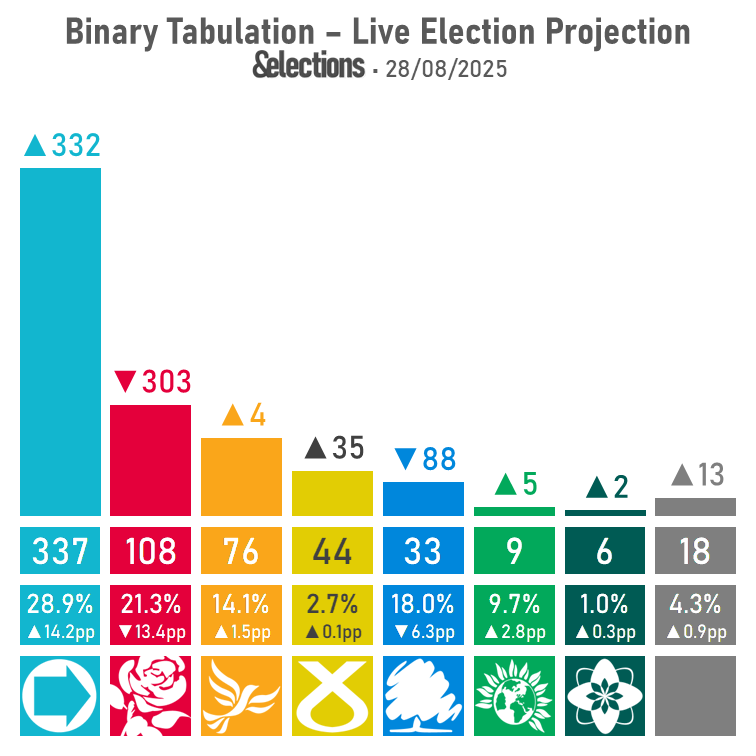
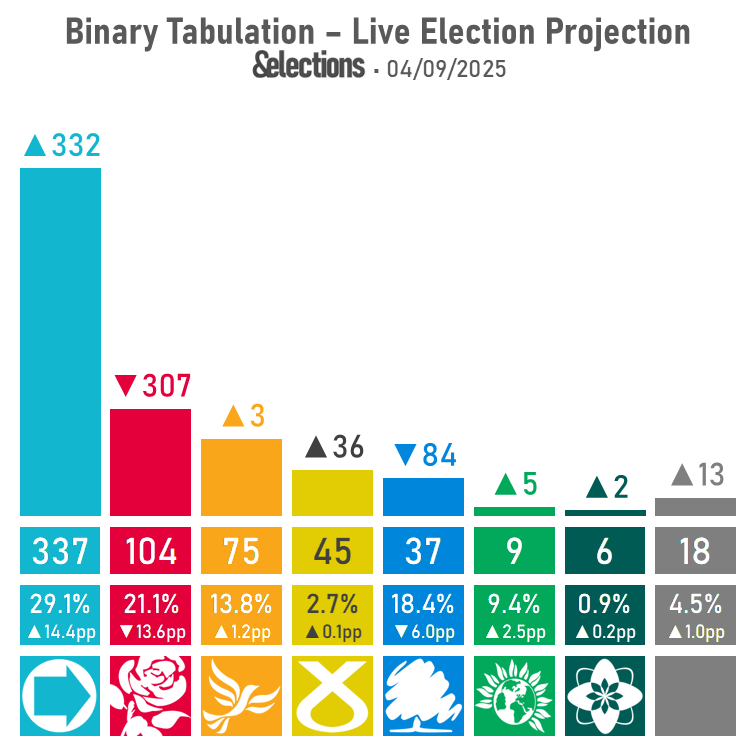
05/09/25 UK Projection
- Added projection files & blog post

diff --git a/index.html b/index.html
@@ -380,6 +380,10 @@
                     </div>
                     <div class="datacontainer" id="data-blog">
                         <div class="blogtitles-container">
+                            <a href="https://andelections.substack.com/p/040925-uk-projection-reform-forecast" title="Open article in new tab" target="_blank" rel="noopener noreferrer">
+                                <h2>04/09/25 UK Projection: Reform Forecast to Scrape a Majority</h2>
+                                <p>04 Sep 2025 • Reform are projected to win a majority as Labour's forecast is once again &Elections' worst ever for them.</p>
+                            </a>
                             <a href="https://andelections.substack.com/p/010925-holyrood-projection-snp-to" title="Open article in new tab" target="_blank" rel="noopener noreferrer">
                                 <h2>01/09/25 Holyrood Projection: SNP to Retain Most Seats Despite Vote Collapsing</h2>
                                 <p>01 Sep 2025 • &Elections' inaugural projection of next year's Scottish Parliament election has the SNP storming ahead despite their vote share collapsing.</p>
